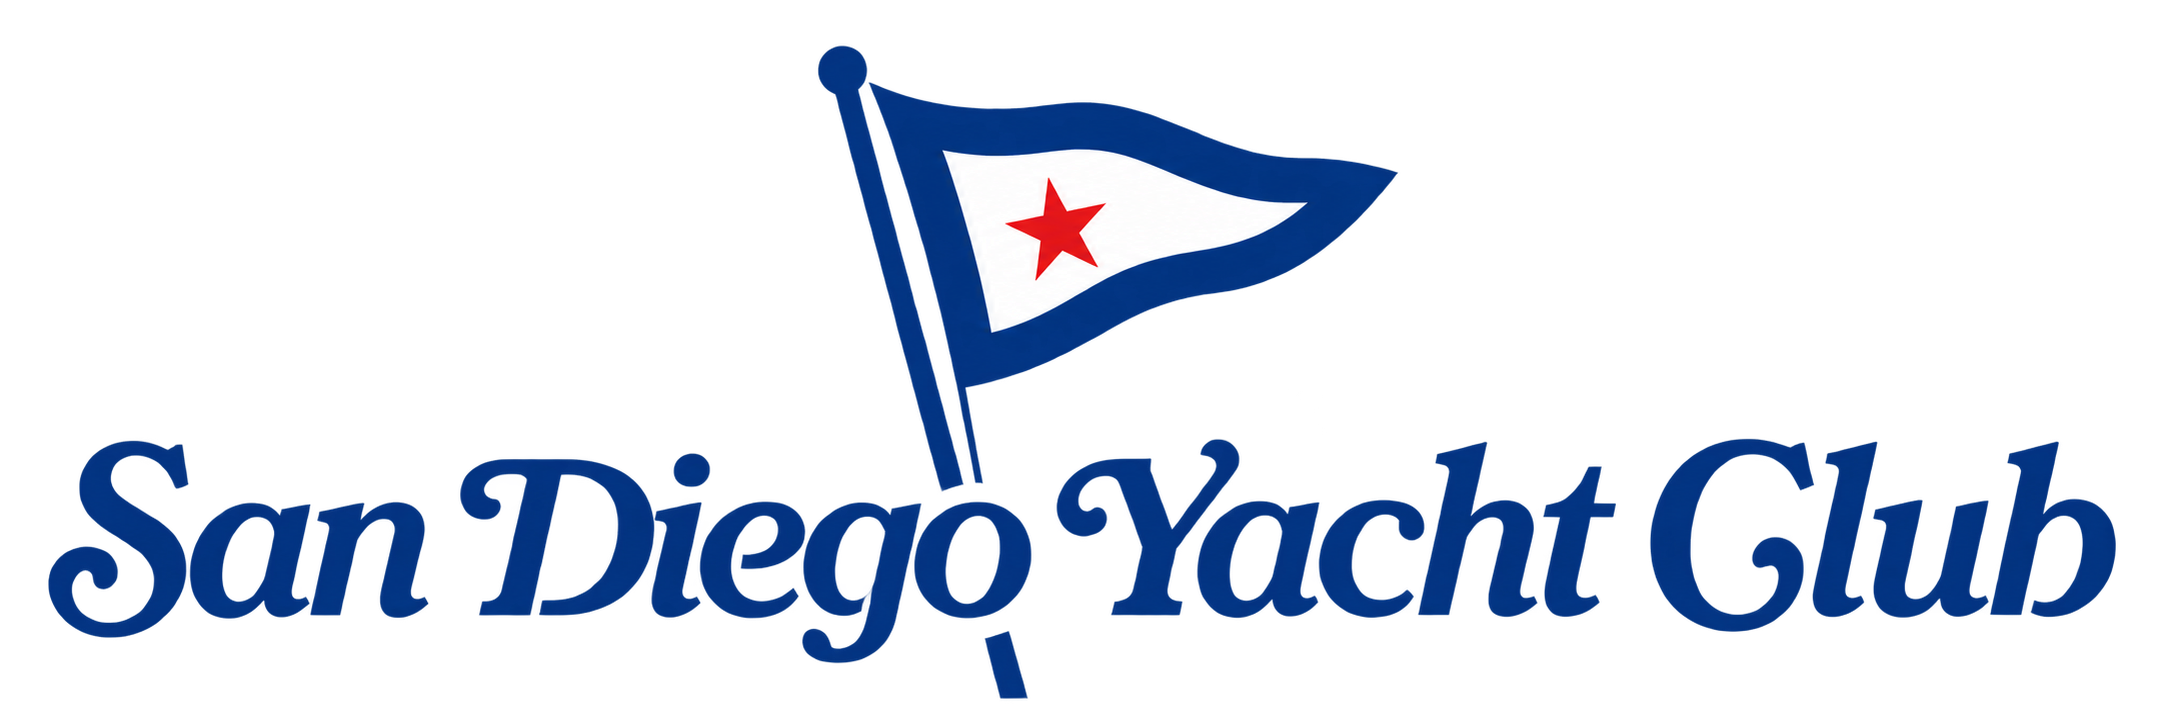
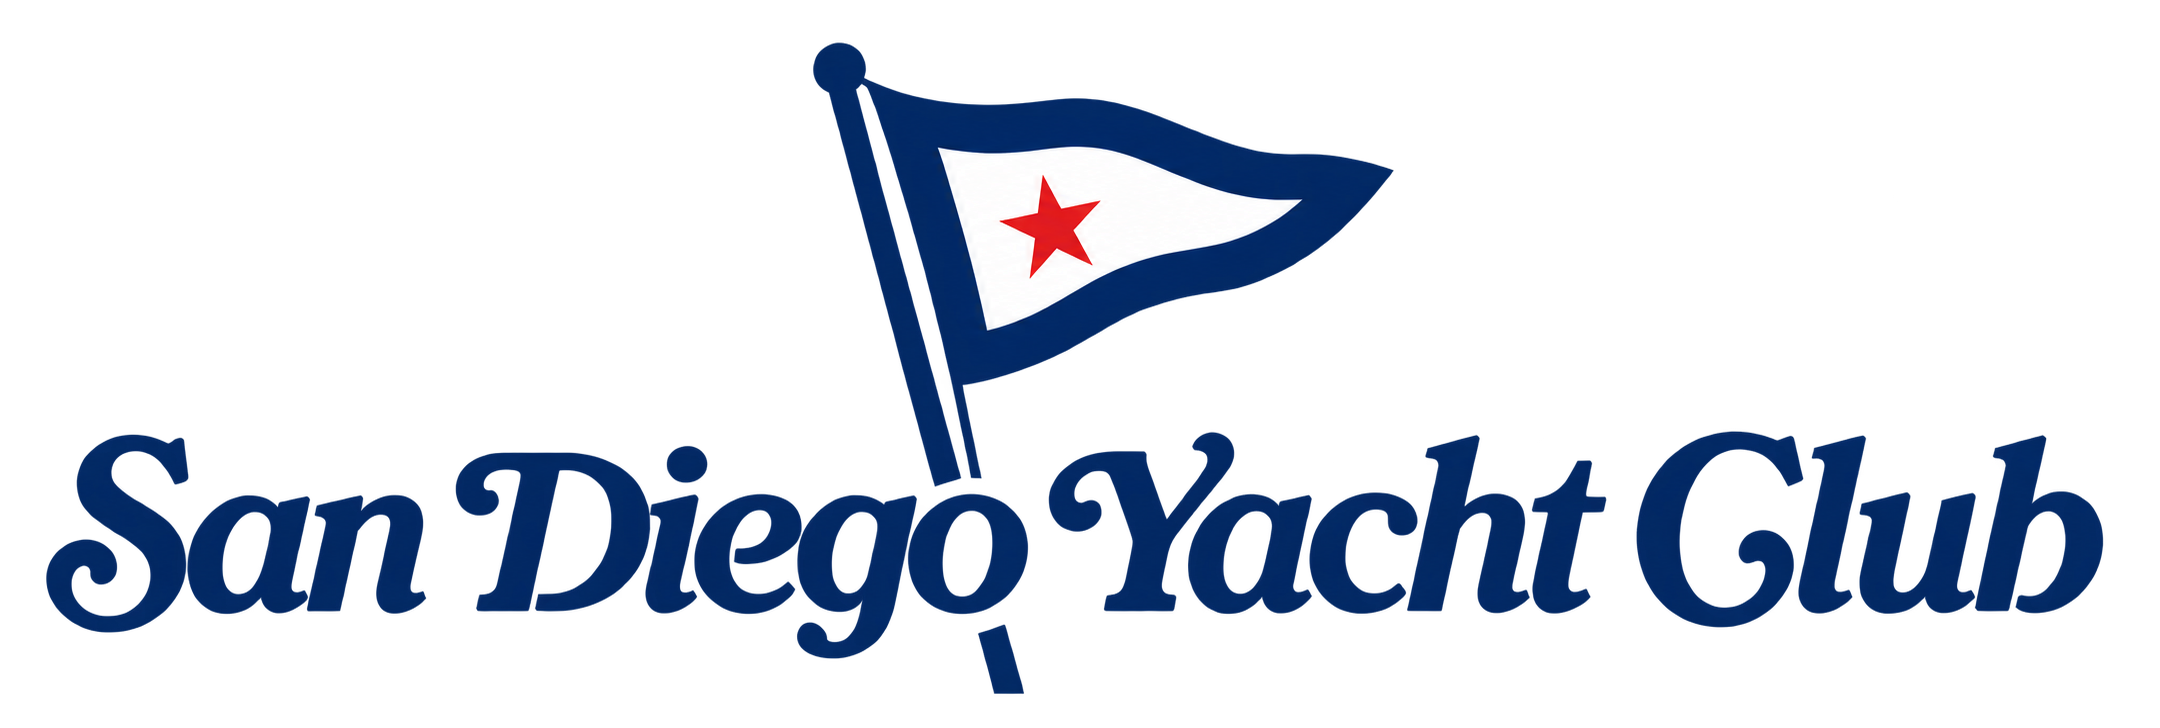
Minor Fixes

Changed region(s): [[0.0, 0.0604, 0.9926, 0.967]]

diff --git a/assets/css/style-clean.css b/assets/css/style-clean.css
@@ -191,8 +191,9 @@ article.active { display: block; animation: fade .5s ease both; }
 .terminal-input:focus-visible { outline: 0; }
 .terminal-input::placeholder { color: #74618f; }
 .service-title, .skills-title, .form-title { margin: 0 0 18px; color: var(--text); font-size: 20px; }
+.service-title { margin-bottom: 30px; font-size: 34px; letter-spacing: -.03em; }
 .service-list { display: grid; grid-template-columns: repeat(2, minmax(0, 1fr)); gap: 16px; }
-.service-item { display: flex; align-items: flex-start; gap: 16px; min-height: 154px; padding: 16px; border: 1px solid var(--line); border-radius: 4px; background: var(--panel-light); transition: border-color var(--speed), transform var(--speed), box-shadow var(--speed); }
+.service-item { display: flex; align-items: center; gap: 16px; min-height: 0; padding: 16px; border: 1px solid var(--line); border-radius: 4px; background: var(--panel-light); transition: border-color var(--speed), transform var(--speed), box-shadow var(--speed); }
 .service-item:hover { border-color: var(--green-dim); transform: translateY(-2px); }
 .service-item:hover { box-shadow: 0 10px 24px rgba(0, 0, 0, .28); }
 .service-icon-box { flex: 0 0 86px; width: 86px; }
@@ -295,7 +296,7 @@ article.active { display: block; animation: fade .5s ease both; }
   object-fit: contain;
 }
 .project-img.homelab-photo img { display: block; position: relative; z-index: 1; width: 100%; height: 100%; margin: 0; object-fit: contain; object-position: center; transform: translateX(2%); }
-.project-img.sdyc-logo img { display: block; width: 82%; height: 82%; margin: 9% auto; object-fit: contain; filter: brightness(1.45) saturate(1.1); }
+.project-img.sdyc-logo img { display: block; width: 82%; height: 82%; margin: 9% auto; object-fit: contain; filter: brightness(1.1) saturate(1.1); }
 .project-img.raices-logo img { display: block; width: 82%; height: 82%; margin: 9% auto; object-fit: contain; }
 .project-img.raices-logo .raices-logo-white { position: absolute; inset: 9%; z-index: 1; width: 82%; height: 82%; margin: 0; filter: brightness(0) invert(1); clip-path: inset(0 42% 0 0); pointer-events: none; }
 .project-item > a:hover img { transform: scale(1.08); }
@@ -453,6 +454,10 @@ textarea.form-input { min-height: 120px; margin-bottom: 16px; resize: vertical; 
 
   .resume .skills-list {
     padding: 14px;
+  }
+
+  .resume .skill + .timeline {
+    margin-top: 32px;
   }
 
   .contact.active,
@@ -718,7 +723,7 @@ article::before:first-letter { color: var(--red); }
 .resume-download:hover { color: #101625; background: #fff; box-shadow: 0 16px 38px rgba(0, 0, 0, .26), inset 0 1px 0 #fff; }
 
 .service-list { gap: 18px; }
-.service-item { min-height: 154px; padding: 18px; border-radius: 20px; }
+.service-item { min-height: 0; padding: 18px; border-radius: 20px; }
 .service-item:hover { border-color: rgba(255, 255, 255, .4); box-shadow: 0 18px 34px rgba(0, 0, 0, .24), inset 0 1px 0 rgba(255, 255, 255, .26); }
 .service-item-title,
 .timeline .title-wrapper .h3,
@@ -801,7 +806,7 @@ ul.skills-list.content-card {
   }
   .navbar-list { justify-content: space-around; gap: 0; }
   .navbar-link { min-height: 44px; padding: 10px 14px; font-size: 13px; }
-  .service-item { flex-direction: column; gap: 14px; }
+  .service-item { flex-direction: column; align-items: flex-start; gap: 14px; }
   .service-project-icon { flex: none; }
   .service-cptc-icon { margin-top: 0; height: 86px; }
   .service-item-title { font-size: 16px; }

diff --git a/index.html b/index.html
@@ -91,7 +91,7 @@
             <div class="contact-info">
               <p class="contact-title">Phone</p>
 
-              <a href="tel:+12133522795" class="contact-link">+1 (747) 300-7291</a>
+              <a href="tel:+17473007291" class="contact-link">+1 (747) 300-7291</a>
             </div>
 
           </li>
@@ -105,7 +105,7 @@
             <div class="contact-info">
               <p class="contact-title">Location</p>
 
-              <address>Los Angeles, California, USA</address>
+              <a href="https://www.google.com/maps/search/?api=1&amp;query=Los+Angeles%2C+California%2C+USA" class="contact-link" target="_blank" rel="noopener noreferrer">Los Angeles, California, USA</a>
             </div>
 
           </li>
@@ -234,7 +234,7 @@
                 <h4 class="h4 service-item-title">Container Orchestration</h4>
 
                 <p class="service-item-text">
-                  Building and operating practical Linux infrastructure with Proxmox, Docker, Kubernetes, and homelab services.
+                  Building and operating practical Linux infrastructure with Proxmox, Docker, Kubernetes, Ansible automation, and homelab services.
                 </p>
               </div>
 
@@ -280,10 +280,10 @@
               </div>
 
               <div class="service-content-box">
-                <h4 class="h4 service-item-title">Penetration Testing &amp; Automation</h4>
+                <h4 class="h4 service-item-title">Penetration Testing &amp; Scripting</h4>
 
                 <p class="service-item-text">
-                  Practicing penetration testing, security analysis, scripting, Ansible automation, and repeatable operational workflows.
+                  Practicing penetration testing, service enumeration, vulnerability validation, and Python and Bash scripting for repeatable security workflows.
                 </p>
               </div>
 
@@ -494,7 +494,7 @@
             <li class="project-item active" data-filter-item data-category="infrastructure" data-order="5">
               <div class="project-detail">
                 <figure class="project-img sdsu-logo">
-                  <img src="./assets/images/project-sdsu-infrastructure.png" alt="SDSU infrastructure stack showing SSL/TLS, UNIX, Sendmail, SSH, Ansible, and Nginx logos" loading="lazy">
+                  <img src="./assets/images/project-sdsu-infrastructure-unix-updated.png" alt="SDSU infrastructure stack showing SSL/TLS, UNIX, Sendmail, SSH, Ansible, and Nginx logos" loading="lazy">
                 </figure>
 
                 <div class="project-content">
